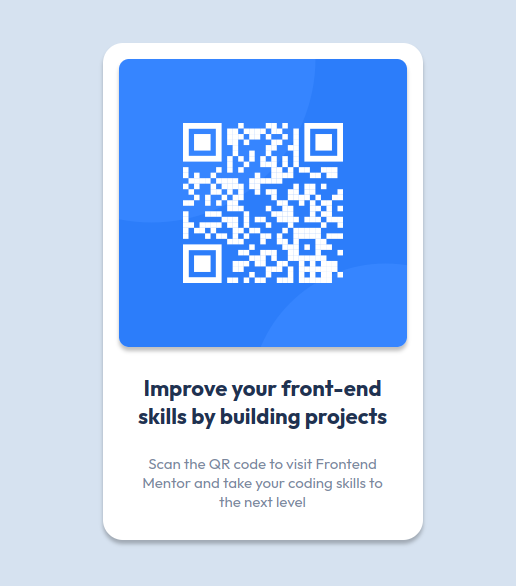
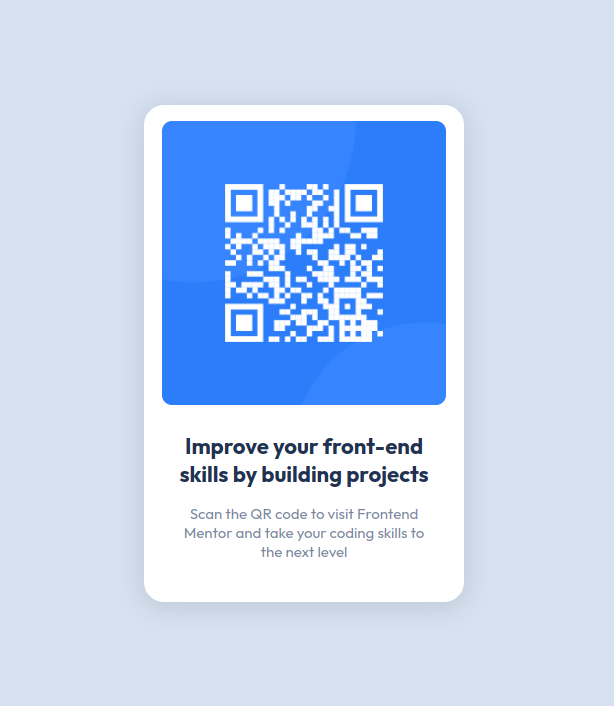
Fixed shadow and changed <h2> tag to <h1> to conform to Frontend Mentor specifications.

diff --git a/index.html b/index.html
@@ -26,14 +26,14 @@
         <div class="container">
           <div class="main-box drop-shadow">
             <img
-              class="qr-code drop-shadow"
+              class="qr-code"
               src="./images/image-qr-code.png"
               alt="qr code"
             />
             <div class="text-container">
-              <h2 class="text-title">
+              <h1 class="text-title">
                 Improve your front-end skills by building projects
-              </h2>
+              </h1>
               <p class="text-main">
                 Scan the QR code to visit Frontend Mentor and take your coding
                 skills to the next level

diff --git a/style.css b/style.css
@@ -46,7 +46,7 @@ body {
 
 .qr-code {
   border-radius: 0.625rem;
-  max-width: calc(100% - 2rem);
+  max-width: calc(99% - 2rem);
 }
 
 .text-container {
@@ -65,7 +65,7 @@ body {
 
 .text-title {
   font-size: var(--fs-big);
-  margin: 1.5rem 0;
+  margin: 1.5rem 0 1rem;
   color: var(--dark-blue);
 }
 
@@ -77,13 +77,13 @@ body {
 /* general styles */
 
 .drop-shadow {
-  box-shadow: 0px 4px 4px 0px rgb(0, 0, 0, 25%);
+  box-shadow: 0px 4px 25px 4px rgb(0, 0, 0, 10%);
 }
 
 /* Frontend Mentor default */
 
 .attribution {
-  height: calc(100% - 1.2rem);
+  height: 100%;
   font-size: 11px;
   text-align: center;
 }
